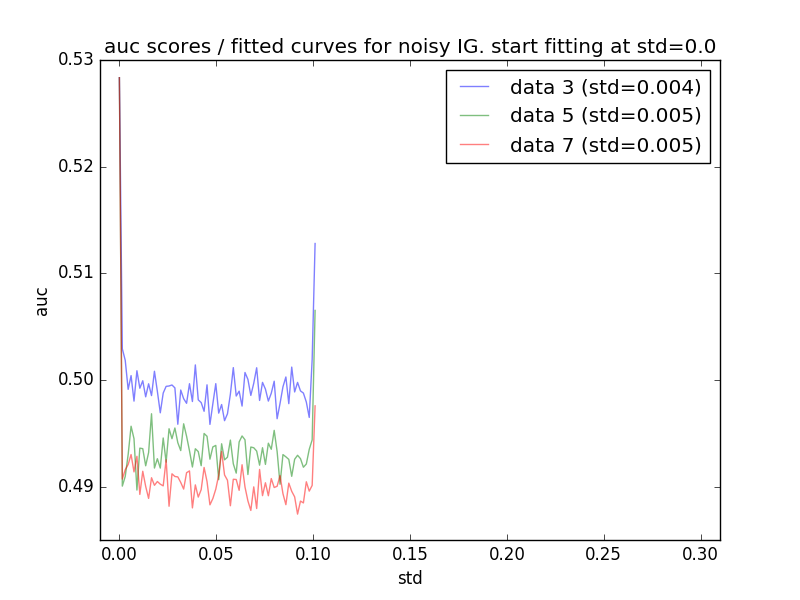
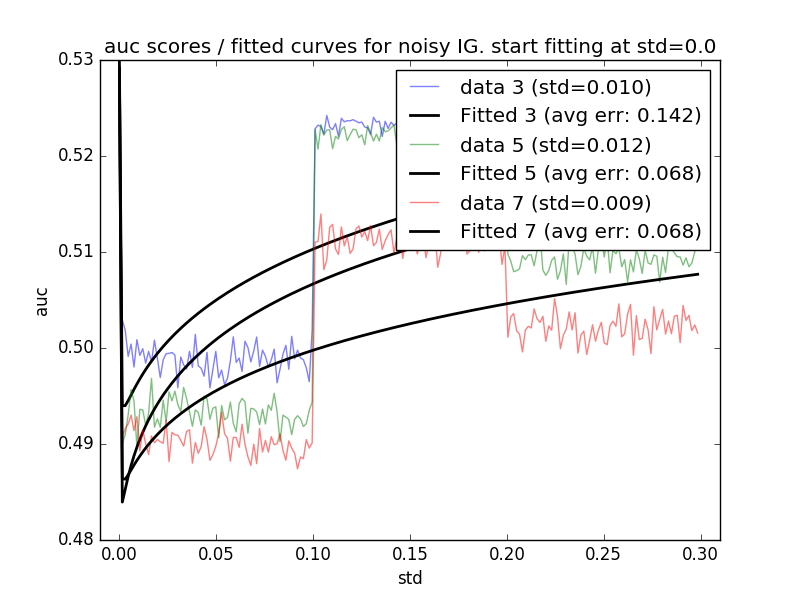
prepared analysis olympia

diff --git a/analysis_olympia.py b/analysis_olympia.py
@@ -1,0 +1,73 @@
+from CSFSLoader import CSFSLoader
+from infoformulas_listcomp import IG
+import math
+import numpy as np
+import pickle
+
+import pandas as pd
+import sys
+
+from scipy.optimize import curve_fit
+from sklearn.preprocessing import binarize
+import matplotlib.pyplot as plt
+from CSFSLoader import CSFSLoader
+from CSFSEvaluator import CSFSEvaluator
+from CSFSSelector import CSFSBestUncertainSelector
+from noise_helper_funcs import structure_data
+import os
+import re
+from CSFSLoader import CSFSLoader
+from infoformulas_listcomp import IG
+
+def explore():
+    path = "datasets/olympia/Olympia_2_update.csv"
+    df = CSFSLoader().load_dataset(path)
+    target = "medals"
+
+    print(df.describe())
+    df = df[:20]
+    import pandas as pd
+    ig_data = {f:IG(df[target], df[f]) for f in df}
+
+    ordered = sorted(ig_data, key=ig_data.__getitem__, reverse=True)
+    for f in ordered:
+        print(f, ig_data[f])
+
+    ordered.remove(target)
+    ordered.remove('id')
+    print('best 10:')
+    print(ordered[:10])
+    print('worst 10:')
+    print(ordered[-10:])
+
+def analysis_std():
+    try:
+        start_std = float(sys.argv[1])
+        end_std = float(sys.argv[2])
+    except:
+        print('please use 3 cmd line arguments:')
+        print('1. start_std (e.g. 0.00003) and 2. end_std (e.g. 0.0001) 3. Dataset name (e.g. artifical3)')
+        exit(-1)
+
+    dataset_name = "olympia"
+    path = "datasets/olympia/Olympia_2_update.csv"
+    df = CSFSLoader().load_dataset(path, format="csv")
+    target = "medals"
+    N_features = [3,5,7]#,11,13,16]
+    N_samples = 100
+
+    for std in np.linspace(0.00001, 0.3, 200):
+        if start_std < std < end_std:
+            sys.stdout.write('std:{}{}'.format(std,'\n'))
+            evaluator = CSFSEvaluator(df, target, fix_std=std)
+            best_noisy_selector = CSFSBestUncertainSelector(df, target, fix_std=std)
+            for n in N_features:
+                aucs = evaluator.evaluate_noisy(n, N_samples, best_noisy_selector)
+
+                filepath = '{}/{}features_{}samples_{:.9f}std'.format(dataset_name, n, len(aucs['best_noisy']), std)
+                pickle.dump(aucs, open("pickle-dumps/{}.pickle".format(filepath), 'wb'))
+
+    sys.stdout.write('analysis with std ranging from {} to {} is finished.'.format(start_std, end_std))
+
+
+analysis_std()

diff --git a/analysis_artificial.py b/analysis_artificial.py
@@ -93,7 +93,7 @@ def visualize_result():
     N_samples = 100
     results = get_result_data(N_features)
     plt.hold(True)
-    fit_curve = False
+    fit_curve = True
     start_lim = 0.0
     params = dict()
 
@@ -109,16 +109,19 @@ def visualize_result():
         std = np.std(y)
         plt.plot(x, y, alpha=0.5, label='data {} (std={:.3f})'.format(n_f, std))
         if fit_curve:
-            x,y = extract_x_y(results, n_f, start_lim=start_lim)
-            popt, pcov = curve_fit(func, x, y)
-            params[n_f] = popt
-            perr = np.sqrt(np.diag(pcov))
-            avg_err = np.mean(perr)
-            print('params: {} '.format(popt))
-            print('errors: {}'.format(perr))
-            print('avg error: {}'.format(avg_err))
+            try:
+                x,y = extract_x_y(results, n_f, start_lim=start_lim)
+                popt, pcov = curve_fit(func, x, y)
+                params[n_f] = popt
+                perr = np.sqrt(np.diag(pcov))
+                avg_err = np.mean(perr)
+                print('params: {} '.format(popt))
+                print('errors: {}'.format(perr))
+                print('avg error: {}'.format(avg_err))
 
-            plt.plot(x, func(x, *popt), '-k', linewidth=2, label="Fitted {} (avg err: {:.3f})".format(n_f, avg_err))
+                plt.plot(x, func(x, *popt), '-k', linewidth=2, label="Fitted {} (avg err: {:.3f})".format(n_f, avg_err))
+            except:
+                sys.stdout.write('Could not fit curve for {} features'.format(n_f))
 
     plt.legend(loc=1)
     plt.title('auc scores / fitted curves for noisy IG. start fitting at std={}'.format(start_lim))
@@ -129,5 +132,5 @@ def visualize_result():
     plt.show()
     fig1.savefig('plots/artificial1/std_result.png', dpi=100)
 
-analysis_general()
-#visualize_result()
+#analysis_general()
+visualize_result()
